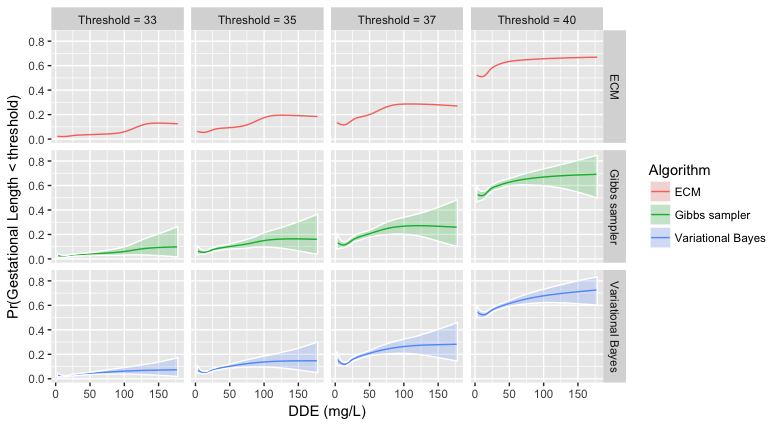
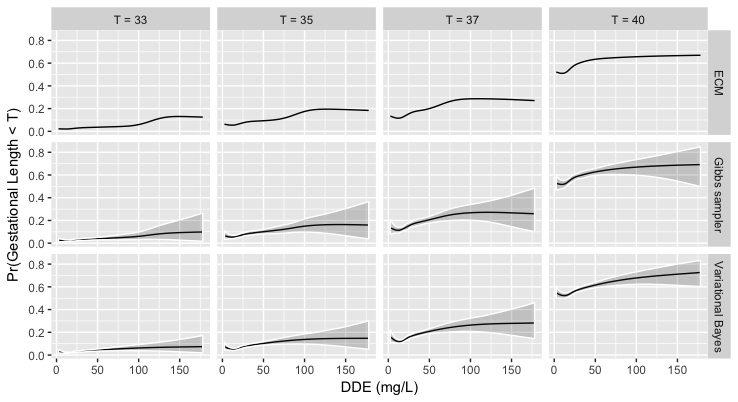
Tutorial and plots

diff --git a/Tutorial_files/tutorial.md b/Tutorial_files/tutorial.md
@@ -1,15 +1,16 @@
 
-In this tutorial we describe the steps for obtaining the results of the application of the paper [Rigon and Durante, 2017](), in order to make our findings fully reproducible.
+In this tutorial we describe the steps for obtaining the results of the application of the paper [Rigon and Durante, 2017](), in order to make them fully reproducible.
 
-Note that all the analyses are performed with a **MacBook Air (OS X Sierra, version 10.12.6)**, using a R version **3.4.1**. Also, the chunk of code below require the installation of the `LSBP` R package, available in this repository. 
+All the analyses are performed with a **MacBook Air (OS X Sierra, version 10.12.6)**, using a R version **3.4.1**. Also, the chunk of code below require the installation of the `LSBP` R package, available in this repository. See the [README](https://github.com/tommasorigon/LSBP/blob/master/README.md) for instructions on the installation.
 
-As a preliminary step, we load in the environment all the required libraries.
+As a preliminary step, we load on a clean the environment all the required libraries.
 
 ```r
 rm(list=ls())    # Clean the current session
 library(LSBP)    # Load the LSBP package
 library(ggplot2) # Graphical library
 library(coda)    # For MCMC analysis
+library(splines) # For computing the natural B-splines basis
 ```
 
 ## Dataset description
@@ -21,32 +22,32 @@ load("dde.RData") # Load the dataset in memory
 The `dde` dataset can be downloaded  [here](dde.RData). It contains a `data.frame` having two columns: 
 
 * `DDE`: the level of the Dichlorodiphenyldichloroethylene.
-* `Age`: the gestational age at delivery, in days.
+* `GAD`: the gestational age at delivery, in days.
 
-The dataset comprises a total of `2312` observations. The `DDE` is clearly related to the weight of the baby, as suggested by the scatterplot shown below; the smooth lines is a loess estimate. 
+The dataset comprises a total of `2312` observations. The `DDE` is clearly related to the gestational age at delivery, as suggested by the scatterplot shown below; the smooth line is a loess estimate. 
 
 ```r
-ggplot(data=dde, aes(x=DDE,y=Age)) + geom_point(alpha=.5, cex=.5) + geom_smooth( method="loess", span = 1, col=1) + xlab("DDE (mg/L)") + ylab("Gestational age at delivery") + theme_bw() 
+ggplot(data=dde, aes(x=DDE,y=GAD)) + geom_point(alpha=.5, cex=.5) + geom_smooth( method="loess", span = 1, col=1) + xlab("DDE (mg/L)") + ylab("Gestational age at delivery") + theme_bw() 
 ```
 
 ![](application_img/plot1.png)
 
 ## LSBP estimation
 
-To fit the LSBP model we first define some fixed quantities, like the number MCMC replications, the burn-in period and the upper bound for the mixture components `H`. 
+To fit the LSBP model we first define some fixed quantities, like the number MCMC replications, the burn-in period and the number of mixture components `H`. 
 
 ```r
 n         <- nrow(dde) # Number of observations
 p         <- 2         # Row and colums of the design for the kernel
 p_splines <- 5         # Number of splines components
-R         <- 30000      # Number of replications
-burn_in   <- 5000       # Burn-in period
+R         <- 30000     # Number of replications
+burn_in   <- 5000      # Burn-in period
 H         <- 5         # Number of mixture components
 ```
 
-Using the function `prior_LSBP` we can specify the prior distribution, in the correct format. Also, notice that both `Age` and `DDE` have been normalized. 
+Using the function `prior_LSBP` we can specify the prior distribution, in the correct format. Also, notice that both `GAD` and `DDE` have been normalized. 
 
-For the mixing components, we use a natural cubic splines basis with $4$ equally spaced inner knots. As a result, for each mixture component we have $5$ parameters that have to be estimated.
+For the mixing components, we use a natural cubic splines basis with $4$ equally spaced inner knots, obtained through the `ns` command of the `splines` package. As a result, for each mixture component we have $5$ parameters that have to be estimated.
 
 
 ```r
@@ -55,19 +56,18 @@ prior       <- prior_LSBP(p,p,
                       b_kernel = c(0,0), B_kernel=diag(1,p), 
                       a_tau = .1, b_tau= .1)
 
-# Creation of the scaled dataset
+# Creation of the normalized dataset
 dde_scaled  <- data.frame(scale(dde))
-Basis       <- splines::ns(dde_scaled$DDE,p_splines)
+Basis       <- ns(dde_scaled$DDE,p_splines)
 dde_scaled  <- data.frame(dde_scaled, BS=Basis)
 
 # Formula for the model
-model_formula <- Formula::as.Formula(Age ~ DDE | BS.1 + BS.2 + BS.3 + BS.4 + BS.5)
+model_formula <- Formula::as.Formula(GAD ~ DDE | BS.1 + BS.2 + BS.3 + BS.4 + BS.5)
 ```
-
 
 ### Gibbs sampling algorithm
 
-We first run the Gibbs sampling, reporting also the computing times needed on our laptop. Of course, these quantities could vary according to the performance of the computer one is using.
+We first run the Gibbs sampling, through the command `LSBP_Gibbs` of the `LSBP` package.
 
 ```r
 set.seed(10) # The seed is setted so that the Gibbs sampler is reproducible.
@@ -77,26 +77,26 @@ fit_Gibbs   <- LSBP_Gibbs(model_formula, data=dde_scaled, H=H, prior=prior,
 
 ### ECM algorithm
 
-In order to alleviate the issue local maxima, we run the ECM algorithm 10 times, and we select the model that reached the highest value of the log-posterior distribution. Below, the computing time for the final model is reported as well.
+In order to alleviate the issue local maxima, we run the ECM algorithm `10` times through the command `LSBP_ECM` of the `LSBP` package, and we select the model that reached the highest value of the log-posterior distribution.
 
 ```r
-post <- rep(0,10)
+logposterior <- rep(0,10)
 for(i in 1:10){
   set.seed(i) # Every time we run the algorithm, we set a seed varying with i
   fit_ECM   <- LSBP_ECM(model_formula, data=dde_scaled, H=H, prior=prior,
                         control=control_ECM(method_init = "random"), verbose=FALSE)
-  post[i]  <- fit_ECM$logposterior
+  logposterior[i]  <- fit_ECM$logposterior
 }
 
 # Then, we run the algorithm again selecting the seed having the maximum log-posterior
-set.seed(which.max(post))
+set.seed(which.max(logposterior))
 fit_ECM   <- LSBP_ECM(model_formula, data=dde_scaled, H=H, prior=prior,
                         control=control_ECM(method_init = "random"), verbose=FALSE)
 ```
 
 ### Variational Bayes algorithm
 
-As for the ECM algorithm, also the variational Bayes approach suffers the issue of local maxima. Therefore, we rely on a similar approach by starting the algorithm 10 times.
+As for the ECM algorithm, also the variational Bayes approach suffers the issue of local maxima. Therefore, we start the algorithm `10` times, selecting the one having the highest lower bound.
 
 ```r
 # VB algorithm
@@ -113,7 +113,7 @@ fit_VB   <- LSBP_VB(model_formula, data=dde_scaled, H=H, prior=prior,
                        control_VB(tol=1e-2,method_init="random"),verbose=FALSE)
 ```
 
-## Posterior predictive check
+## Conditional densities
 
 We first create some auxiliary quantities that will be useful during this 
 
@@ -122,32 +122,30 @@ We first create some auxiliary quantities that will be useful during this
 DDE.points  <- (round(quantile(dde$DDE,c(0.1,0.6,0.9,0.99)),2) - mean(dde$DDE))/sd(dde$DDE)
 
 # And the correspondings design matrices
-X1           <- cbind(1,DDE.points)             # Design matrix of the kernel
-X2           <- cbind(1,splines::ns(DDE.points, # Design matrix for the mixing
+X1           <- cbind(1,DDE.points)             # Design matrix for the kernel
+X2           <- cbind(1,ns(DDE.points,          # Design matrix for the stick-breaking weights
                                     knots=attr(Basis,"knots"),
                                     Boundary.knots=attr(Basis,"Boundary.knots")))
 # Sequence for AGE and DDE
-sequenceAge    <- seq(from=min(dde_scaled$Age),to=max(dde_scaled$Age),length=100)
+sequenceGAD <- seq(from=min(dde_scaled$GAD),to=max(dde_scaled$GAD),length=100)
 sequenceDDE <- seq(from=min(dde_scaled$DDE),to=max(dde_scaled$DDE),length=100)
 
 # Create a new dataset containing the values to be predicted
-newdata     <- data.frame(Age=0, DDE=sequenceDDE, 
-                          BS= splines::ns(sequenceDDE, 
-                                          knots=attr(Basis,"knots"),
-                                          Boundary.knots=attr(Basis,"Boundary.knots")))
+newdata     <- data.frame(GAD=0, DDE=sequenceDDE, 
+                          BS= ns(sequenceDDE,knots=attr(Basis,"knots"),Boundary.knots=attr(Basis,"Boundary.knots")))
 ```
 
-In the following chunks, it is reported the code necessary for obtaining the density function for the three algorithms, using the function `LSBP_density` which evaluates the density function of a logit stick-breaking model.
+In the following chunks, it is reported the code necessary for obtaining the density function for the three algorithms, using the function `LSBP_density` of the `LSBP` package, which evaluates the density function of a logit stick-breaking model.
 
 ```r
 # Posterior density - Gibbs sampling
-pred_Gibbs <- array(0,c(R,length(sequenceAge),4))
-for(r in 1:R){
-  for(i in 1:100){
-    pred_Gibbs[r,i,] <- c(LSBP_density(sequenceAge[i],X1,X2,
+pred_Gibbs <- array(0,c(R,length(sequenceGAD),4))
+for(r in 1:R){      # Cycle over the iterations of the MCMC chain
+  for(i in 1:100){  # Cycle over the GAD grid
+    pred_Gibbs[r,i,] <- c(LSBP_density(sequenceGAD[i],X1,X2,
                           fit_Gibbs$param$beta_mixing[r,,],
                           fit_Gibbs$param$beta_kernel[r,,],
-                          fit_Gibbs$param$tau[r,]))/sd(dde$Age)
+                          fit_Gibbs$param$tau[r,]))/sd(dde$GAD)
   }
 }
 
@@ -161,12 +159,12 @@ Similarly, for the ECM algorithm we compute
 
 ```r
 # Posterior density estimate for the ECM model
-estimate_ECM <- matrix(0,length(sequenceAge),4)
-for(i in 1:100){
-  estimate_ECM[i,] <- c(LSBP_density(sequenceAge[i],X1,X2,
+estimate_ECM <- matrix(0,length(sequenceGAD),4)
+for(i in 1:100){       # Cycle over the GAD grid
+  estimate_ECM[i,] <- c(LSBP_density(sequenceGAD[i],X1,X2,
                        fit_ECM$param$beta_mixing,
                        fit_ECM$param$beta_kernel,
-                       fit_ECM$param$tau))/sd(dde$Age)
+                       fit_ECM$param$tau))/sd(dde$GAD)
 }
 
 ```
@@ -195,13 +193,13 @@ for (h in 1:H) {
 }
 
 # Posterior density - VB
-pred_VB <- array(0,c(R,length(sequenceAge),4))
-for(r in 1:R){
-  for(i in 1:100){
-    pred_VB[r,i,] <- c(LSBP_density(sequenceAge[i],X1,X2,
+pred_VB <- array(0,c(R,length(sequenceGAD),4))
+for(r in 1:R){      # Cycle over the R simulations of the previous step
+  for(i in 1:100){  # Cycle over the GAD grid
+    pred_VB[r,i,] <- c(LSBP_density(sequenceGAD[i],X1,X2,
                           fit_VB$beta_mixing_sim[r,,],
                           fit_VB$beta_kernel_sim[r,,],
-                          fit_VB$tau_sim[r,]))/sd(dde$Age)
+                          fit_VB$tau_sim[r,]))/sd(dde$GAD)
   }
 }
 
@@ -214,22 +212,22 @@ upper_VB    <- apply(pred_VB,c(2,3),function(x) quantile(x,0.975))
 The construction of the graph of the paper is as follows
 
 ```r
-# Construction of the data_frame
+# Construction of the data_frame - Notice that the values are reconducted to the original scale.
 data.plot <- data.frame(
   prediction  = c(c(estimate_Gibbs),c(estimate_ECM),c(estimate_VB)),
   lower       = c(c(lower_Gibbs),rep(NA,100*4),c(lower_VB)),
   upper       = c(c(upper_Gibbs),rep(NA,100*4),c(upper_VB)),
-  sequenceAge = rep(sequenceAge,3*4)*sd(dde$Age) + mean(dde$Age),
+  sequenceGAD = rep(sequenceGAD,3*4)*sd(dde$GAD) + mean(dde$GAD),
   DDE.points  = rep(rep(DDE.points,each=100),3)*sd(dde$DDE)+ mean(dde$DDE),
   Algorithm   = c(rep("Gibbs sampler",4*100),rep("ECM",4*100),rep("Variational Bayes",4*100))
 )
 
 
 data.plot2 <- data.frame(
-  Age = rep(c(dde$Age[which(dde$DDE < 20.505)],
-        dde$Age[which(dde$DDE >= 20.505 & dde$DDE < 41.08)],
-        dde$Age[which(dde$DDE >= 41.08 & dde$DDE < 79.6)],
-        dde$Age[which(dde$DDE > 79.6)]),3),
+  GAD = rep(c(dde$GAD[which(dde$DDE < 20.505)],
+        dde$GAD[which(dde$DDE >= 20.505 & dde$DDE < 41.08)],
+        dde$GAD[which(dde$DDE >= 41.08 & dde$DDE < 79.6)],
+        dde$GAD[which(dde$DDE > 79.6)]),3),
   DDE.points = rep(c(rep(12.57,sum(dde$DDE < 20.505)),
         rep(28.44,sum(dde$DDE >= 20.505 & dde$DDE < 41.08)),
         rep(53.72,sum(dde$DDE >= 41.08 & dde$DDE < 79.6)),
@@ -237,36 +235,36 @@ data.plot2 <- data.frame(
   Algorithm = c(rep("Gibbs sampler",nrow(dde)),rep("ECM",nrow(dde)),rep("Variational Bayes",nrow(dde)))
 )
 
-ggplot(data=data.plot) + geom_line(aes(x=sequenceAge,y=prediction,col=Algorithm)) + facet_grid(Algorithm~ DDE.points,scales="free_y") + ylab("Density") + geom_ribbon(alpha=0.2,aes(x=sequenceAge,ymin=lower,ymax=upper,fill=Algorithm))  +xlab("Gestational age at delivery") + geom_histogram(data=data.plot2,aes(x=Age,y=..density..),alpha=0.2,bins=25)
+ggplot(data=data.plot) + geom_line(aes(x=sequenceGAD,y=prediction)) + facet_grid(Algorithm~ DDE.points,scales="free_y") + ylab("Density") + geom_ribbon(alpha=0.4,aes(x=sequenceGAD,ymin=lower,ymax=upper))  +xlab("Gestational age at delivery") + geom_histogram(data=data.plot2,aes(x=GAD,y=..density..),alpha=0.2,bins=25)
 ```
 
 ![](application_img/plot2.png)
 
-## Additional graphs
+## Conditional probabilities of being under a threshold
 
-Finally, we procude here the graph concerning
-
+Finally, we produce the conditional probability of being under a threshold
 
 ```r
-gibbs_cdf <- cbind(predict(fit_Gibbs,type="cdf",threshold=(33*7 - mean(dde$Age))/sd(dde$Age),newdata=newdata),
-               predict(fit_Gibbs,type="cdf",threshold=(35*7 - mean(dde$Age))/sd(dde$Age),newdata=newdata),
-               predict(fit_Gibbs,type="cdf",threshold=(37*7 - mean(dde$Age))/sd(dde$Age),newdata=newdata),
-               predict(fit_Gibbs,type="cdf",threshold=(40*7 - mean(dde$Age))/sd(dde$Age),newdata=newdata))
+# Notice that the GAD and DDE values are reconducted to the original scale.
+gibbs_cdf <- cbind(predict(fit_Gibbs,type="cdf",threshold=(33*7 - mean(dde$GAD))/sd(dde$GAD),newdata=newdata),
+               predict(fit_Gibbs,type="cdf",threshold=(35*7 - mean(dde$GAD))/sd(dde$GAD),newdata=newdata),
+               predict(fit_Gibbs,type="cdf",threshold=(37*7 - mean(dde$GAD))/sd(dde$GAD),newdata=newdata),
+               predict(fit_Gibbs,type="cdf",threshold=(40*7 - mean(dde$GAD))/sd(dde$GAD),newdata=newdata))
 
-vb_cdf    <- cbind(predict(fit_VB,type="cdf",threshold=(33*7 - mean(dde$Age))/sd(dde$Age),newdata=newdata),
-               predict(fit_VB,type="cdf",threshold=(35*7 - mean(dde$Age))/sd(dde$Age),newdata=newdata),
-               predict(fit_VB,type="cdf",threshold=(37*7 - mean(dde$Age))/sd(dde$Age),newdata=newdata),
-               predict(fit_VB,type="cdf",threshold=(40*7 - mean(dde$Age))/sd(dde$Age),newdata=newdata))
+vb_cdf    <- cbind(predict(fit_VB,type="cdf",threshold=(33*7 - mean(dde$GAD))/sd(dde$GAD),newdata=newdata),
+               predict(fit_VB,type="cdf",threshold=(35*7 - mean(dde$GAD))/sd(dde$GAD),newdata=newdata),
+               predict(fit_VB,type="cdf",threshold=(37*7 - mean(dde$GAD))/sd(dde$GAD),newdata=newdata),
+               predict(fit_VB,type="cdf",threshold=(40*7 - mean(dde$GAD))/sd(dde$GAD),newdata=newdata))
 
-ECM_cdf   <- c(predict(fit_ECM,type="cdf",threshold=(33*7 - mean(dde$Age))/sd(dde$Age),newdata=newdata),
-               predict(fit_ECM,type="cdf",threshold=(35*7 - mean(dde$Age))/sd(dde$Age),newdata=newdata),
-               predict(fit_ECM,type="cdf",threshold=(37*7 - mean(dde$Age))/sd(dde$Age),newdata=newdata),
-               predict(fit_ECM,type="cdf",threshold=(40*7 - mean(dde$Age))/sd(dde$Age),newdata=newdata))
+ECM_cdf   <- c(predict(fit_ECM,type="cdf",threshold=(33*7 - mean(dde$GAD))/sd(dde$GAD),newdata=newdata),
+               predict(fit_ECM,type="cdf",threshold=(35*7 - mean(dde$GAD))/sd(dde$GAD),newdata=newdata),
+               predict(fit_ECM,type="cdf",threshold=(37*7 - mean(dde$GAD))/sd(dde$GAD),newdata=newdata),
+               predict(fit_ECM,type="cdf",threshold=(40*7 - mean(dde$GAD))/sd(dde$GAD),newdata=newdata))
                
-data.cdf  <- data.frame(DDE=rep(sequenceDDE,3*4)*sd(dde$D) + mean(dde$DDE),
+data.cdf  <- data.frame(DDE=rep(sequenceDDE,3*4)*sd(dde$DDE) + mean(dde$DDE),
                         Algorithm=rep(c("ECM","Gibbs sampler","Variational Bayes"),each=4*length(sequenceDDE)),
                         CDF  = c(ECM_cdf,colMeans(gibbs_cdf),colMeans(vb_cdf)),
-                        Threshold = rep(rep(c("Threshold = 33","Threshold = 35","Threshold = 37","Threshold = 40"),each=length(sequenceDDE)),3),
+                        Threshold = rep(rep(c("T = 33","T = 35","T = 37","T = 40"),each=length(sequenceDDE)),3),
                         Upper = c(rep(NA,4*length(sequenceDDE)),
                                   apply(gibbs_cdf,2,function(x) quantile(x,0.975)),
                                   apply(vb_cdf,2,function(x) quantile(x,0.975))),
@@ -274,7 +272,7 @@ data.cdf  <- data.frame(DDE=rep(sequenceDDE,3*4)*sd(dde$D) + mean(dde$DDE),
                                   apply(gibbs_cdf,2,function(x) quantile(x,0.025)),
                                   apply(vb_cdf,2,function(x) quantile(x,0.025))))
 
-ggplot(data=data.cdf,aes(x=DDE,y=CDF,ymin=Lower,ymax=Upper,fill=Algorithm,col=Algorithm)) + geom_line() + facet_grid(Algorithm~Threshold)+ xlab("DDE (mg/L)")+ylab("Pr(Gestational Length < threshold)") + geom_ribbon(alpha=0.2,col="white")
+ggplot(data=data.cdf,aes(x=DDE,y=CDF,ymin=Lower,ymax=Upper)) + geom_line() + facet_grid(Algorithm~Threshold)+ xlab("DDE (mg/L)")+ylab("Pr(Gestational Length < T)") + geom_ribbon(alpha=0.2,col="white") 
 ```
 
 ![](application_img/plot3.png)
